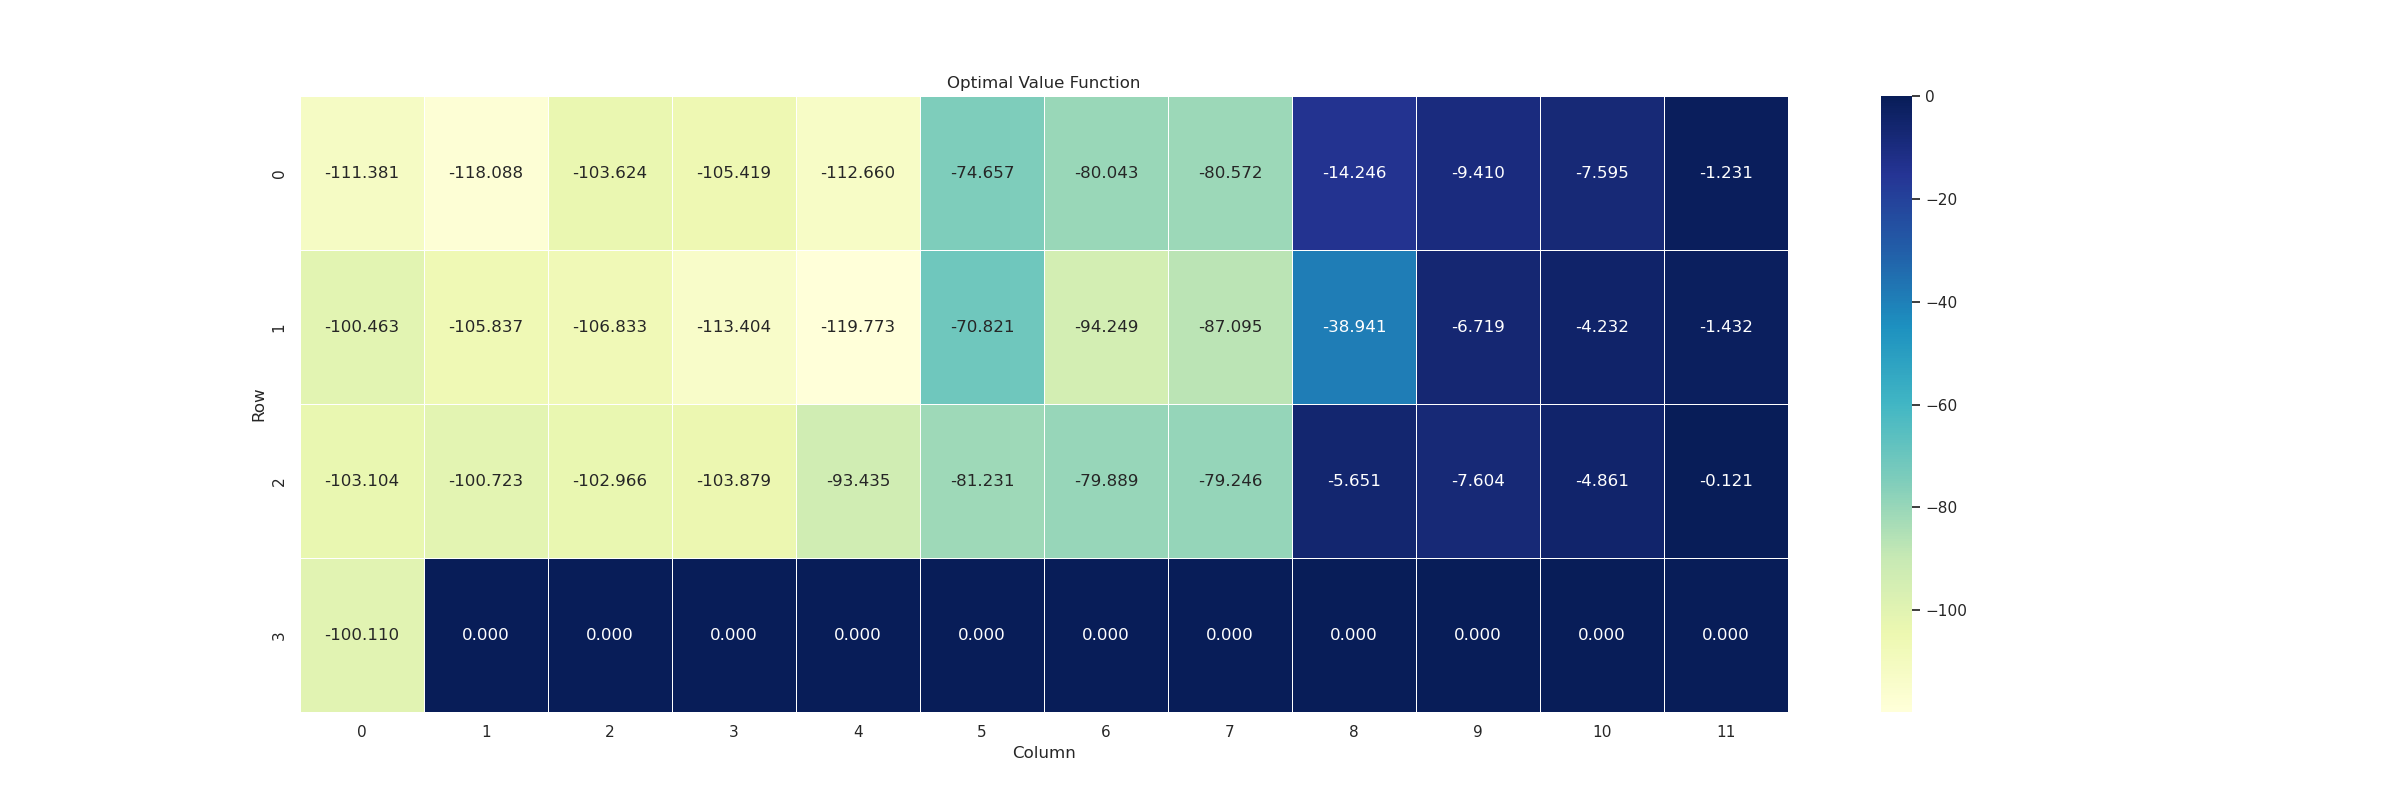
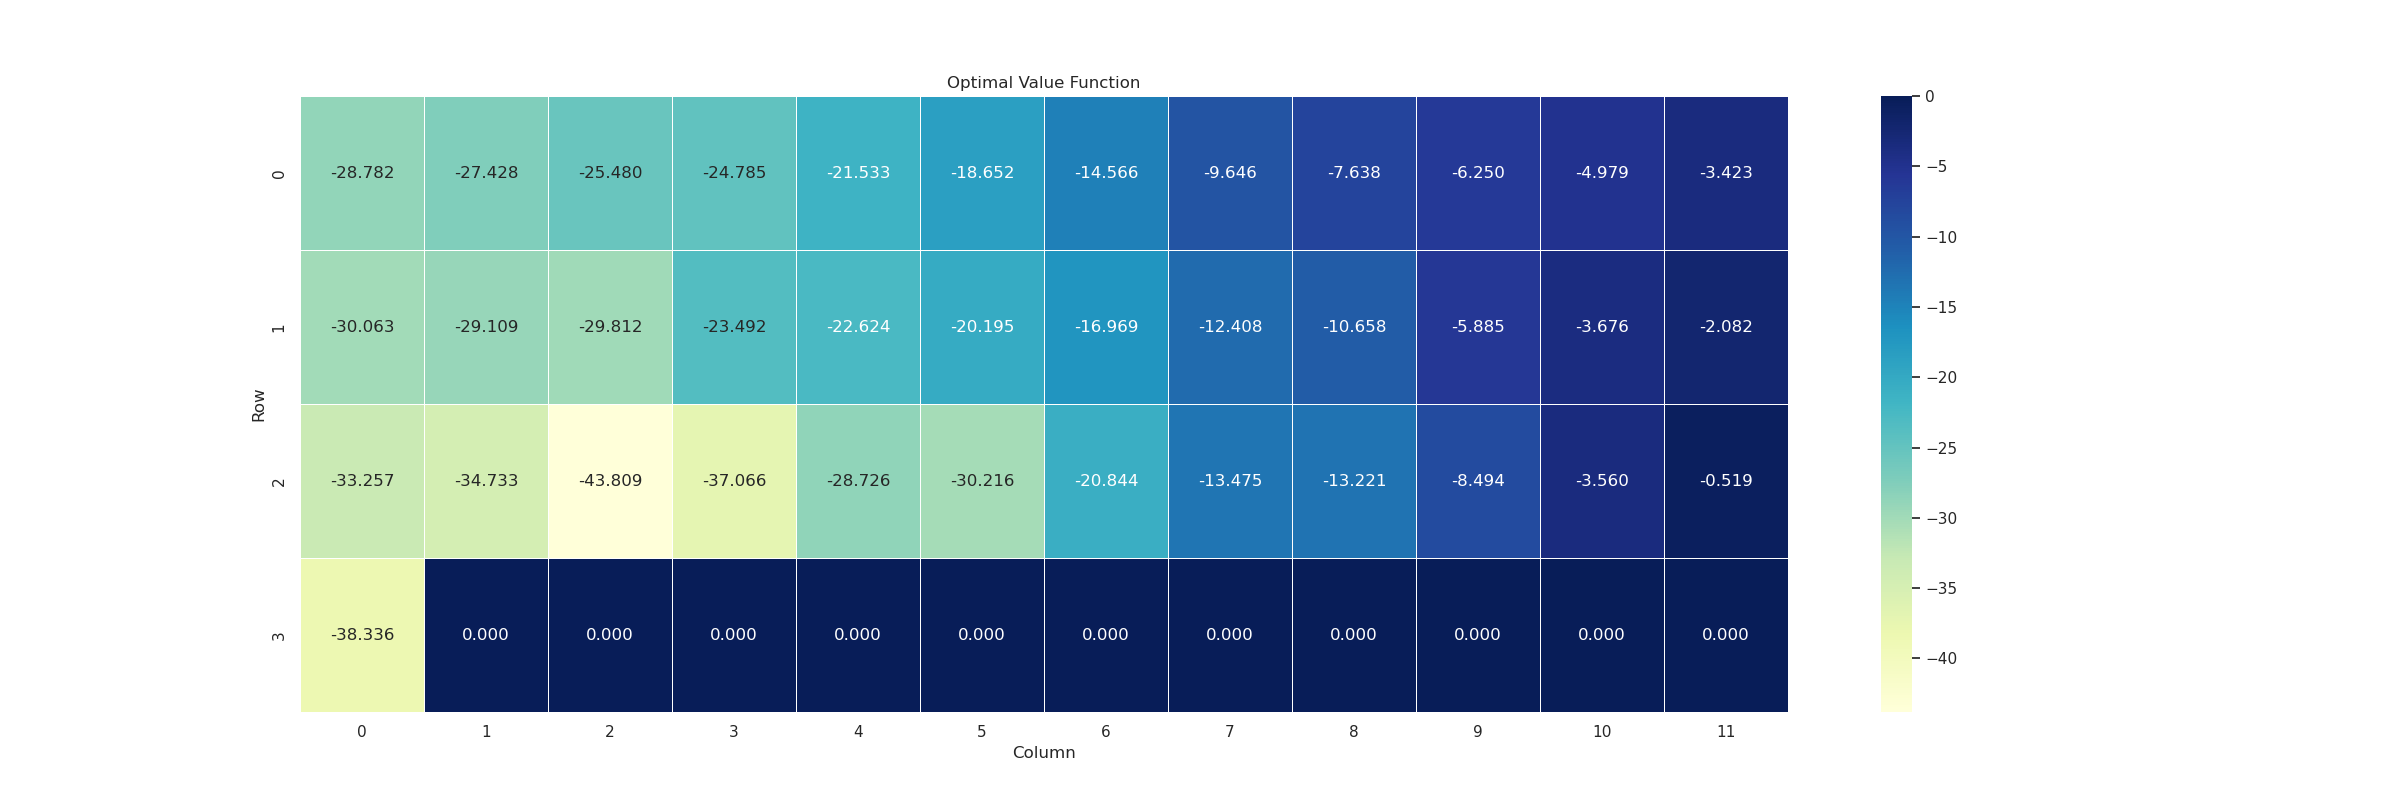
sarsa_lambda added...

Changed region(s): [[0.125, 0.0938, 0.75, 0.7188], [0.125, 0.7812, 0.1875, 0.8125], [0.7812, 0.625, 0.8125, 0.6562]]

diff --git a/DynamicProgramming/cliff_td_lambda.py b/DynamicProgramming/cliff_td_lambda.py
@@ -21,55 +21,8 @@ log.basicConfig(level=log.INFO, format='%(asctime)s - %(levelname)s - %(message)
 sns.set_theme()
 plt.rcParams['font.family'] = 'DejaVu Sans'
 
-def isForbidden(s):
-    return s in [37, 38, 39, 40, 41, 42, 43, 44, 45, 46]
-
 def state2Coord(s):
     return s // 12, s % 12
-
-def coord2State(r, c):
-    return r * 12 + c
-
-def isValid(r, c):
-    if r < 0 or r > 3:
-        return False 
-    if c < 0 or c > 11:
-        return False 
-    return True
-
-def neighbours(s):
-    n = list(set([nextState(s, a) for a in range(4)]))
-    n = list(filter(lambda x: (isValid(*state2Coord(x))), n))
-    return n
-
-def nextState(s, a):
-    r, c = state2Coord(s)
-    r_prime, c_prime = r, c
-    if a == 0:  ##  up...
-        r_prime = r - 1
-    elif a == 1:  ##  right...
-        c_prime = c + 1
-    elif a == 2:  ##  down...
-        r_prime = r + 1
-    elif a == 3:  ## left...
-        c_prime = c - 1
-    if not isValid(r_prime, c_prime):
-        r_prime, c_prime = r, c
-    return coord2State(r_prime, c_prime)
-
-def nextReward(s, a):
-    s_prime = nextState(s, a)
-    return -100 if isForbidden(s_prime) else (0 if s_prime == 47 else -1)
-
-def p(s_prime, r, s, a):
-    s_next = nextState(s, a)
-    r_next = nextReward(s, a)
-    return 1 if (s_prime, r) == (s_next, r_next) else 0
-
-
-def pi(a, s, probs=np.ones((48, 4)) * 0.25):    
-    return probs[s][a]
-
 
 def visualize(v):
     v_vis = np.zeros((4, 12), float)
@@ -172,7 +125,10 @@ class MHAgent:
             self.v, self.q = self.updateQ(s, a, r, s_prime, a_prime)
             self.clearBuffer()
             self.n_episodes -=- 1
-            # if not(self.n_episodes % 10):
+            if self.n_episodes and not(self.n_episodes % 100):
+                log.info(f'Episode: {self.n_episodes}, MeanG: {np.mean(Gs[-10:])}')
+                visualizePolicy(self.q)
+                visualize(self.v)
         if log.getLogger().isEnabledFor(log.DEBUG):
             input('Press any key to continue...')
         self.improvePolicy()
@@ -230,7 +186,7 @@ class MHAgent:
     
 
 
-mha = MHAgent(gamma=0.99, eps=0.1, alpha=0.8, landa=0.9) 
+mha = MHAgent(gamma=0.99, eps=0.2, alpha=0.1, landa=0.9) 
 # env = gym.make('CliffWalking-v0', render_mode='human')
 env = gym.make('CliffWalking-v0')
 observation, info = env.reset()
@@ -253,12 +209,12 @@ while True:
         G = 0  
     if t and not t % 1000:
         print(f'Timestep: {t}, MeanG: {np.mean(Gs[-10:])}')
-        if not t % 1000:
-            visualizePolicy(mha.q)
-            visualize(mha.v)
-            command = input('What to do?')
-            if command.lower() in ['exit', 'q']:
-                break
+        # if not t % 1000:
+        #     # visualizePolicy(mha.q)
+        #     # visualize(mha.v)
+        #     command = input('What to do?')
+        #     if command.lower() in ['exit', 'q']:
+        #         break
     t += 1
 
 
